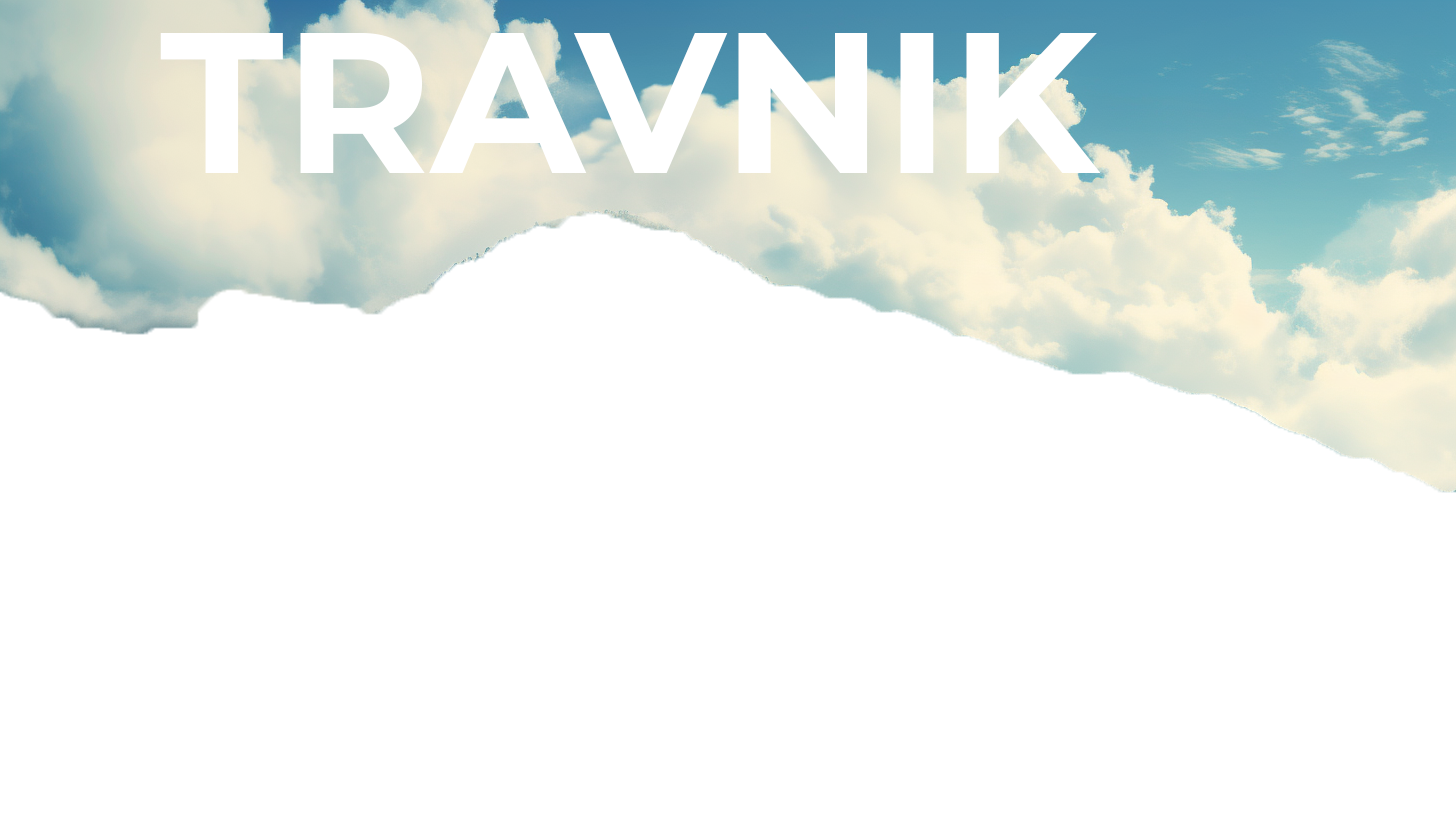
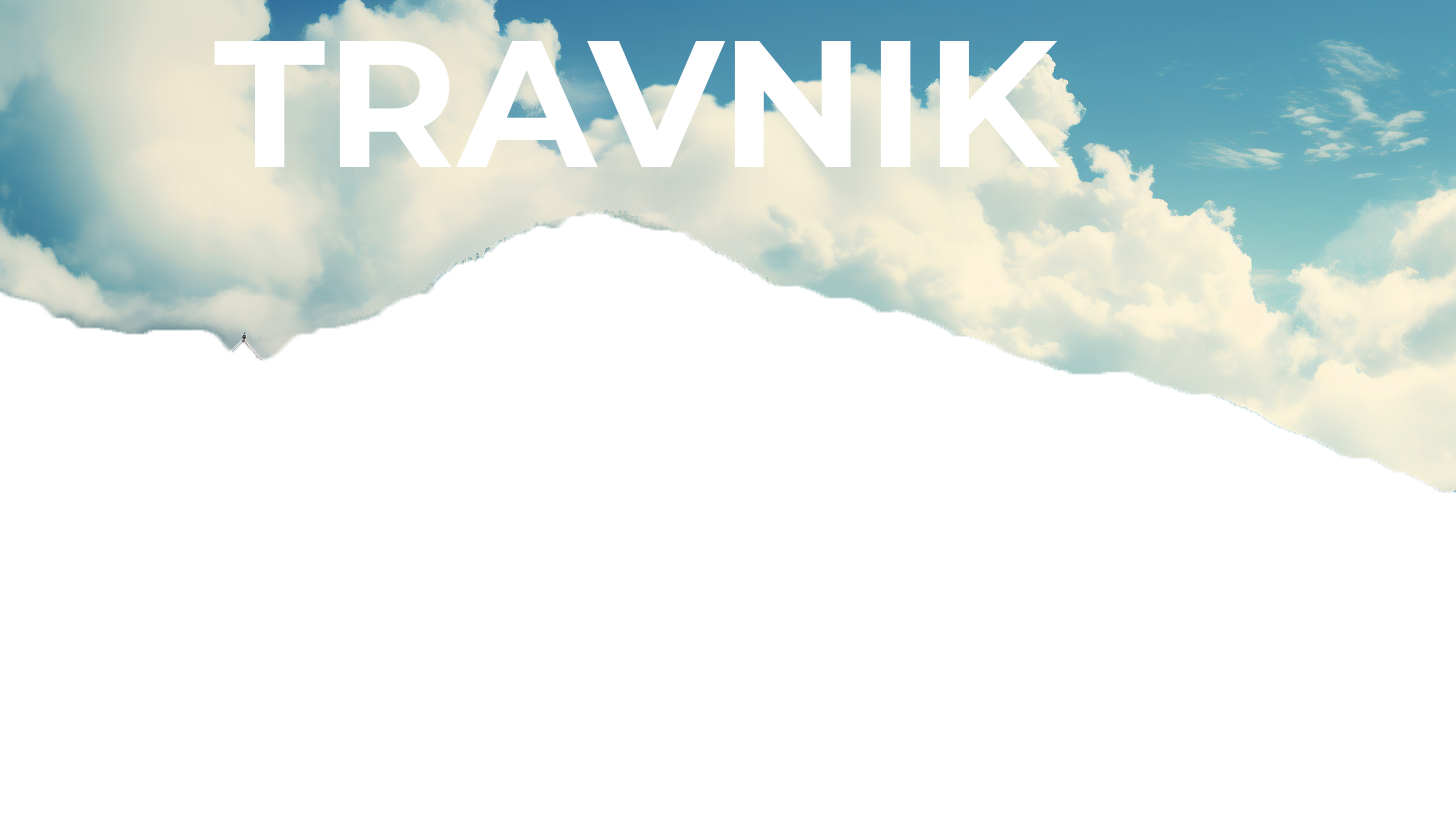
About us page

Changed region(s): [[0.0927, 0.0306, 0.4636, 0.2145], [0.4636, 0.0306, 0.7727, 0.2145], [0.1236, 0.337, 0.2473, 0.4596]]

diff --git a/client/src/app/[locale]/about/page.tsx b/client/src/app/[locale]/about/page.tsx
@@ -4,12 +4,14 @@ import Footer from "@/components/home/footer/Footer";
 import Navbar from "@/components/home/navbar/Navbar"
 import { useLocale } from "next-intl";
 import Image from "next/image";
+import Link from "next/link";
+import { FaSearchLocation } from "react-icons/fa";
 import { Parallax } from "react-parallax";
 
 const AboutPage = () => {
     const locale = useLocale();
     return (
-        <>
+        <div className="bg-gray-800">
             <Navbar />
             <div className="bg-gray-800">
                 <Parallax
@@ -28,8 +30,130 @@ const AboutPage = () => {
                     </div>
                 </Parallax>
             </div>
+            <section className="text-white bg-gray-800 mt-12">
+                <div className="mx-auto flex pb-24 md:flex-row flex-col items-center">
+                    <div className="lg:max-w-3xl lg:w-full md:w-1/2 w-5/6 mb-10 md:mb-0">
+                        <Image src="/images/travelnik-phone.png" alt="Travelnik phone mock" height={400} width={1200} />
+                    </div>
+                    <div className="md:w-1/2 flex flex-col md:items-start md:text-left text-center">
+                        <h1 className="title-font sm:text-4xl text-3xl mb-4 font-medium text-white">
+                            <h2 className="text-xs text-secondaryColor tracking-widest font-medium title-font mb-1">
+                                OUR APPLICATION
+                            </h2>Travelnik strives to simplify the journey for newcomers
+                        </h1>
+                        <p className="mb-8 leading-relaxed text-gray-300">At Travelnik, we believe in the transformative power of travel to create meaningful connections, broaden perspectives, and cultivate a deep appreciation for diversity. By providing reliable information, personalized recommendations, and fostering a vibrant community of explorers, we aspire to make every visitor&apos;s journey to Travnik a delightful and enriching adventure.</p>
+                        <div className="flex">
+                            <div className="justify-end">
+                                <Link href="/">
+                                    <button className="bg-gray-600 transition duration-500 inline-flex py-3 px-5 rounded-lg items-center lg:mr-4 md:ml-0 mr-4 md:mt-4 mt-0 lg:mt-0 hover:bg-gray-500 focus:outline-none">
+                                        <FaSearchLocation className="w-6 h-6" />
+                                        <span className="ml-4 flex items-start flex-col leading-none">
+                                            <span className="text-xs text-white mb-1">Start exploring on the</span>
+                                            <span className="title-font font-medium">Website</span>
+                                        </span>
+                                    </button>
+                                </Link>
+                                <button className="bg-gray-600 transition duration-500 inline-flex py-3 px-5 rounded-lg items-center hover:bg-gray-500 focus:outline-none">
+                                    <svg xmlns="http://www.w3.org/2000/svg" fill="currentColor" className="w-6 h-6" viewBox="0 0 512 512">
+                                        <path d="M99.617 8.057a50.191 50.191 0 00-38.815-6.713l230.932 230.933 74.846-74.846L99.617 8.057zM32.139 20.116c-6.441 8.563-10.148 19.077-10.148 30.199v411.358c0 11.123 3.708 21.636 10.148 30.199l235.877-235.877L32.139 20.116zM464.261 212.087l-67.266-37.637-81.544 81.544 81.548 81.548 67.273-37.64c16.117-9.03 25.738-25.442 25.738-43.908s-9.621-34.877-25.749-43.907zM291.733 279.711L60.815 510.629c3.786.891 7.639 1.371 11.492 1.371a50.275 50.275 0 0027.31-8.07l266.965-149.372-74.849-74.847z"></path>
+                                    </svg>
+                                    <span className="ml-4 flex items-start flex-col leading-none">
+                                        <span className="text-xs text-white mb-1">GET IT ON</span>
+                                        <span className="title-font font-medium">Google Play</span>
+                                    </span>
+                                </button>
+                                <button className="bg-gray-600 transition duration-500 inline-flex py-3 px-5 rounded-lg items-center lg:ml-4 md:ml-0 ml-4 md:mt-4 mt-0 lg:mt-0 hover:bg-gray-500 focus:outline-none">
+                                    <svg xmlns="http://www.w3.org/2000/svg" fill="currentColor" className="w-6 h-6" viewBox="0 0 305 305">
+                                        <path d="M40.74 112.12c-25.79 44.74-9.4 112.65 19.12 153.82C74.09 286.52 88.5 305 108.24 305c.37 0 .74 0 1.13-.02 9.27-.37 15.97-3.23 22.45-5.99 7.27-3.1 14.8-6.3 26.6-6.3 11.22 0 18.39 3.1 25.31 6.1 6.83 2.95 13.87 6 24.26 5.81 22.23-.41 35.88-20.35 47.92-37.94a168.18 168.18 0 0021-43l.09-.28a2.5 2.5 0 00-1.33-3.06l-.18-.08c-3.92-1.6-38.26-16.84-38.62-58.36-.34-33.74 25.76-51.6 31-54.84l.24-.15a2.5 2.5 0 00.7-3.51c-18-26.37-45.62-30.34-56.73-30.82a50.04 50.04 0 00-4.95-.24c-13.06 0-25.56 4.93-35.61 8.9-6.94 2.73-12.93 5.09-17.06 5.09-4.64 0-10.67-2.4-17.65-5.16-9.33-3.7-19.9-7.9-31.1-7.9l-.79.01c-26.03.38-50.62 15.27-64.18 38.86z"></path>
+                                        <path d="M212.1 0c-15.76.64-34.67 10.35-45.97 23.58-9.6 11.13-19 29.68-16.52 48.38a2.5 2.5 0 002.29 2.17c1.06.08 2.15.12 3.23.12 15.41 0 32.04-8.52 43.4-22.25 11.94-14.5 17.99-33.1 16.16-49.77A2.52 2.52 0 00212.1 0z"></path>
+                                    </svg>
+                                    <span className="ml-4 flex items-start flex-col leading-none">
+                                        <span className="text-xs text-white mb-1">Download on the</span>
+                                        <span className="title-font font-medium">App Store</span>
+                                    </span>
+                                </button>
+
+                            </div>
+                        </div>
+                    </div>
+
+                </div >
+            </section >
+            <section className="text-white bg-gray-800">
+                <div className="container px-5 mx-auto">
+                    <div className="flex flex-col text-center w-full mb-20">
+                        <h2 className="text-xs text-secondaryColor tracking-widest font-medium title-font mb-1">
+                            OUR MISSION
+                        </h2>
+                        <h1 className="sm:text-3xl text-3xl font-medium title-font mb-4 text-gray-100">
+                            At Travelnik, our mission is to empower and inspire new tourists to explore the enchanting town of Travnik by providing them with a seamless and immersive web-based experience. We aim to be the go-to platform for travelers seeking authentic insights and guidance, ensuring that every visitor discovers the rich cultural heritage, picturesque landscapes, and hidden gems that Travnik has to offer.
+                        </h1>
+                        <p className="lg:w-2/3 mx-auto leading-relaxed text-lg text-white/40">
+                            Travelnik © 2023 All Rights Reserved.
+                        </p>
+                    </div>
+                </div>
+            </section>
+
+            <section className="text-gray-600 body-font relative">
+                <div className="container px-5 py-24 mx-auto">
+                    <div className="flex flex-col text-center w-full mb-12">
+                        <h1 className="sm:text-3xl text-2xl font-medium title-font mb-4 text-white">Contact Us</h1>
+                        <p className="lg:w-2/3 mx-auto leading-relaxed text-gray-400">Whatever cardigan tote bag tumblr hexagon brooklyn asymmetrical gentrify.</p>
+                    </div>
+                    <div className="lg:w-1/2 md:w-2/3 mx-auto">
+                        <div className="flex flex-wrap -m-2">
+                            <div className="p-2 w-1/2">
+                                <div className="relative">
+                                    <label htmlFor="name" className="leading-7 text-sm text-gray-400">Name</label>
+                                    <input type="text" id="name" name="name" placeholder="Enter your name" className="w-full bg-gray-700 bg-opacity-50 rounded border border-gray-700 focus:border-secondaryColor focus:ring-2 focus:ring-gray-500 text-base outline-none text-gray-700 py-1 px-3 leading-8 transition-colors duration-200 ease-in-out" />
+                                </div>
+                            </div>
+                            <div className="p-2 w-1/2">
+                                <div className="relative">
+                                    <label htmlFor="email" className="leading-7 text-sm text-gray-400">Email</label>
+                                    <input type="email" id="email" name="email" placeholder="Enter your email" className="w-full bg-gray-700 bg-opacity-50 rounded border border-gray-700 focus:border-secondaryColor focus:ring-2 focus:ring-gray-500 text-base outline-none text-gray-700 py-1 px-3 leading-8 transition-colors duration-200 ease-in-out" />
+                                </div>
+                            </div>
+                            <div className="p-2 w-full">
+                                <div className="relative">
+                                    <label htmlFor="message" className="leading-7 text-sm text-gray-400">Message</label>
+                                    <textarea id="message" name="message" placeholder="Enter your message" className="w-full bg-gray-700 bg-opacity-50 rounded border border-gray-700 focus:border-secondaryColor focus:ring-2 focus:ring-gray-500 h-32 text-base outline-none text-gray-700 py-1 px-3 resize-none leading-6 transition-colors duration-200 ease-in-out"></textarea>
+                                </div>
+                            </div>
+                            <div className="p-2 w-full">
+                                <button className="flex mx-auto text-white bg-secondaryColor/80 border-0 py-2 px-8 focus:outline-none hover:bg-secondaryColor transition duration-500 rounded text-lg">Send</button>
+                            </div>
+                            <div className="p-2 w-full pt-8 mt-8 border-t border-gray-200 text-center">
+                                <a className="text-secondaryColor">info@travelnik.ba</a>
+                                <p className="leading-normal my-5 text-gray-400">Slana Dolina
+                                    <br></br>Travnik, 72270
+                                </p>
+                                <span className="inline-flex">
+                                    <a className="text-gray-500">
+                                        <svg fill="currentColor" stroke-linecap="round" stroke-linejoin="round" stroke-width="2" className="w-5 h-5" viewBox="0 0 24 24">
+                                            <path d="M18 2h-3a5 5 0 00-5 5v3H7v4h3v8h4v-8h3l1-4h-4V7a1 1 0 011-1h3z"></path>
+                                        </svg>
+                                    </a>
+                                    <a className="ml-4 text-gray-500">
+                                        <svg fill="currentColor" stroke-linecap="round" stroke-linejoin="round" stroke-width="2" className="w-5 h-5" viewBox="0 0 24 24">
+                                            <path d="M23 3a10.9 10.9 0 01-3.14 1.53 4.48 4.48 0 00-7.86 3v1A10.66 10.66 0 013 4s-4 9 5 13a11.64 11.64 0 01-7 2c9 5 20 0 20-11.5a4.5 4.5 0 00-.08-.83A7.72 7.72 0 0023 3z"></path>
+                                        </svg>
+                                    </a>
+                                    <a className="ml-4 text-gray-500">
+                                        <svg fill="none" stroke="currentColor" stroke-linecap="round" stroke-linejoin="round" stroke-width="2" className="w-5 h-5" viewBox="0 0 24 24">
+                                            <rect width="20" height="20" x="2" y="2" rx="5" ry="5"></rect>
+                                            <path d="M16 11.37A4 4 0 1112.63 8 4 4 0 0116 11.37zm1.5-4.87h.01"></path>
+                                        </svg>
+                                    </a>
+                                </span>
+                            </div>
+                        </div>
+                    </div>
+                </div>
+            </section>
             <Footer />
-        </>
+        </div >
     );
 }
 

diff --git a/client/src/app/[locale]/history/page.tsx b/client/src/app/[locale]/history/page.tsx
@@ -37,7 +37,7 @@ const HistoryPage = () => {
               <h1 className="sm:text-3xl text-3xl font-medium title-font mb-4 text-white">
                 {t("header_1")}
               </h1>
-              <p className="lg:w-2/3 mx-auto leading-relaxed text-lg">
+              <p className="lg:w-2/3 mx-auto leading-relaxed text-lg text-gray-400">
                 {t("text_1")}
               </p>
             </div>
@@ -60,7 +60,7 @@ const HistoryPage = () => {
                 <h1 className="text-white text-3xl title-font font-medium mb-1">
                   {t("header_2")}
                 </h1>
-                <p className="leading-relaxed text-white text-lg">
+                <p className="leading-relaxed text-gray-400 text-lg ">
                   {t("text_2")}
                 </p>
               </div>
@@ -77,7 +77,7 @@ const HistoryPage = () => {
                 <h1 className="text-white text-3xl title-font font-medium mb-1">
                   {t("header_3")}
                 </h1>
-                <p className="leading-relaxed text-white text-lg">
+                <p className="leading-relaxed text-gray-400 text-lg">
                   {t("text_3")}
                 </p>
               </div>
